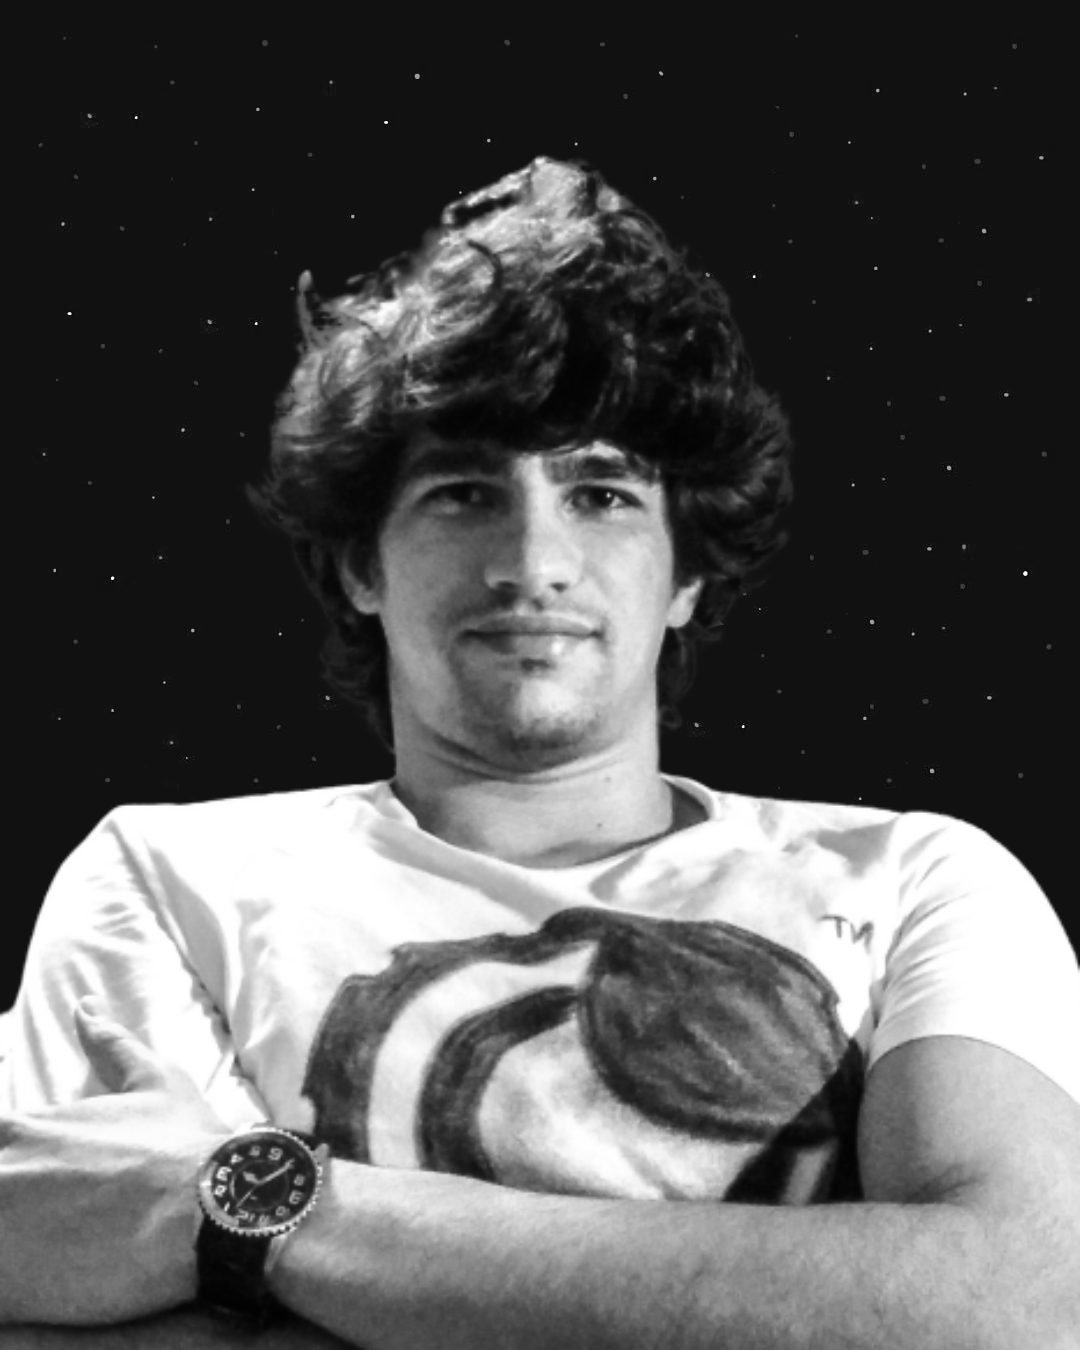
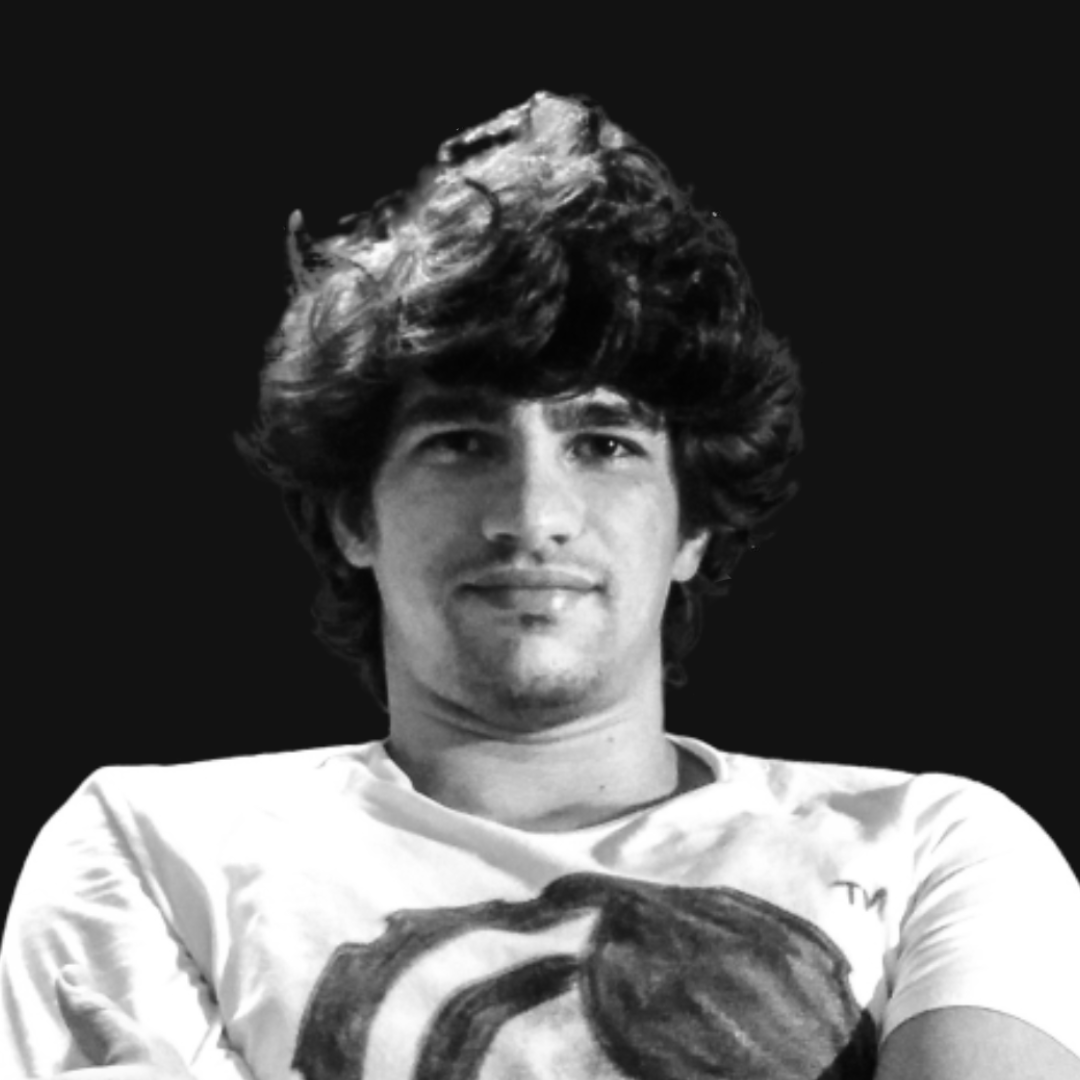
bug: fix team table images.
Issues: #12

diff --git a/README.md b/README.md
@@ -18,12 +18,12 @@
 </p>
 
 <p align="right">
-    <a href="https://github.com/alexaquino/xhold-crypto-project/">
+    <!-- <a href="https://github.com/alexaquino/xhold-crypto-project/">
         <img
             alt="GitHub release"
             src="https://img.shields.io/github/v/release/alexaquino/xhold-crypto-project?color=73398D&logo=Trustpilot&logoColor=ffffff&style=flat-square"
         />
-    </a>
+    </a> -->
     <a href="https://github.com/alexaquino/xhold-crypto-project/">
         <img
             alt="GitHub issue count"
@@ -65,8 +65,6 @@
 
 <!-- ## 0. NavBar  -->
 
-#
-
 <br/>
     <p align="center">
     <a></a> ⋮⋮⋮⋮⋮⋮⋮⋮
@@ -79,7 +77,6 @@
     </p>
 <br/>
 
-#
 
 ## 1. About
 
@@ -106,10 +103,15 @@
 
 <p align="justify"> <del> Lorem Ipsum is simply dummy text of the printing and typesetting industry. Lorem Ipsum has been the industry's standard dummy text ever since the 1500s, when an unknown printer took a galley of type and scrambled it to make a type specimen book </del>. </p>
 
-| DEVELOPER            | UI/UX               | TESTER                |  PRODUCT OWNER               |
-| :------------------: | :------------------:| :--------------------:| :---------------------------:|
-<img src="./assets/team/alexaquino.png" title="Developer" width="100%" align="center"> | <img src="./assets/team/alexaquino.png" title="ui/ux" width="100%" align="center"> | <img src="./assets/team/alexaquino.png" title="Tester" width="100%" align="center"> | <img src="./assets/team/alexaquino.png" title="Product Owner" width="100%" align="center">
-| [Alex Aquino](https://github.com/alexaquino) | [Alex Aquino](https://github.com/alexaquino) | [Alex Aquino](https://github.com/alexaquino) | [Alex Aquino](https://github.com/alexaquino) |
+
+
+<style> th { width: 25%; } </style>
+
+
+| DEVELOPER            | UI/UX                | TESTER               |  PRODUCT OWNER       |
+| :------------------: | :------------------: | :------------------: | :------------------: |
+<img src="./assets/team/alexaquino.png"> | <img src="./assets/team/alexaquino.png"> | <img src="./assets/team/alexaquino.png"> | <img src="./assets/team/alexaquino.png">
+| [Alex Aquino] | [Alex Aquino] | [Alex Aquino] | [Alex Aquino] |
 
 
 ## 5. License
@@ -164,5 +166,9 @@ Licensed under the [MIT](LICENSE.txt) license.
 
 <p align="justify"> We love turn caffeine into code! If this project was useful to you and helped you manage and accumulate your cryptocurrencies of it in some form and you want to support the project, please consider buying us a coffee so we can keep adding new features. </p>
 
-</p>
+
+<!-- Links -->
+
+[Alex Aquino]:<https://github.com/alexaquino>
+
 
